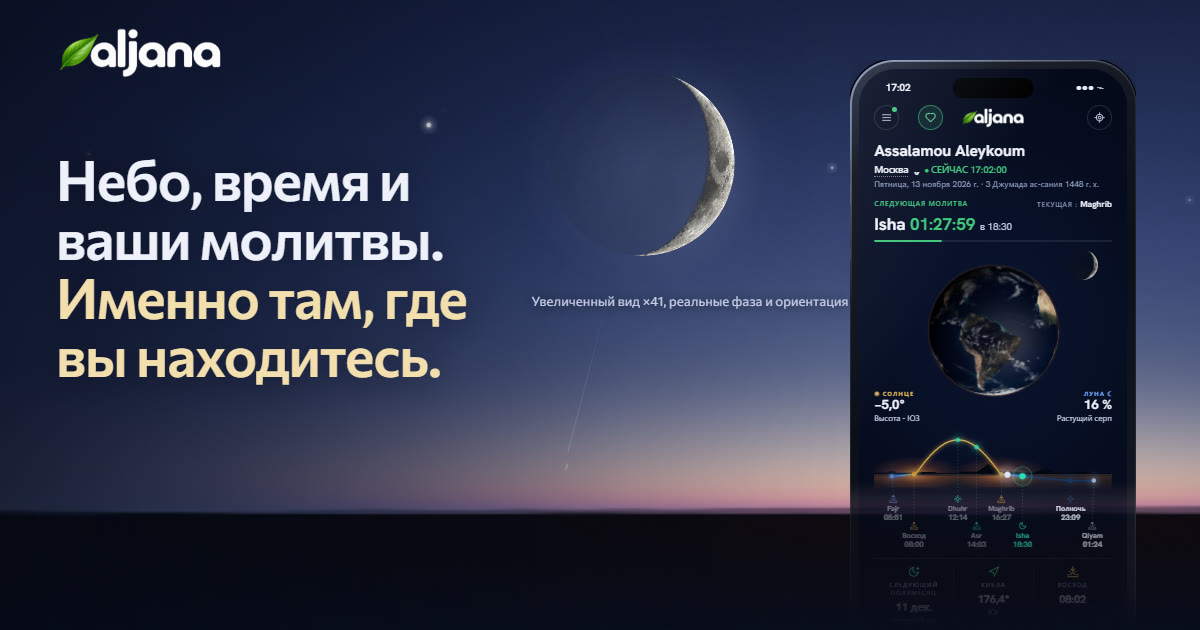
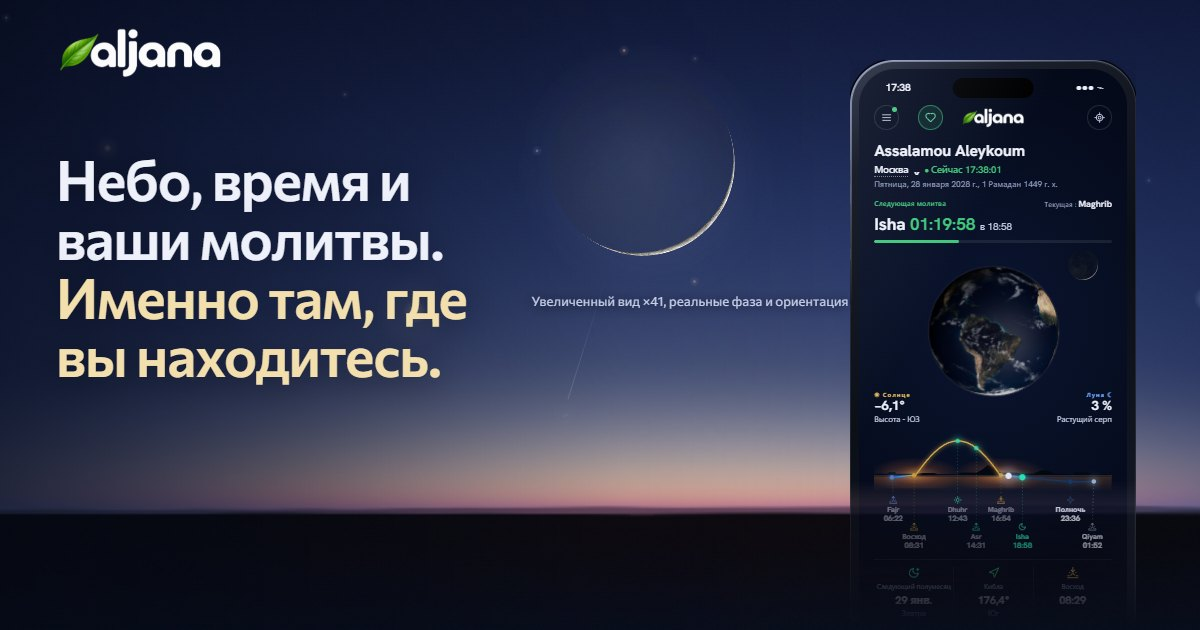
feat(site): share images on 28 January 2028, first evening of Ramadan 1449

diff --git a/index.html b/index.html
@@ -33,14 +33,14 @@
 <meta property="og:url" content="https://aljana.app/">
 <meta property="og:title" content="aljana : vos prières et votre ciel, là où vous êtes">
 <meta property="og:description" content="Horaires de prière, ciel en direct, Lune, Hilal, Qibla et éclipses. Tout est calculé pour votre position et contrôlé face aux éphémérides de la NASA.">
-<meta property="og:image" content="https://aljana.app/assets/og/fr.jpg?v=2">
+<meta property="og:image" content="https://aljana.app/assets/og/fr.jpg?v=3">
 <meta property="og:image:width" content="1200">
 <meta property="og:image:height" content="630">
 <meta property="og:locale" content="fr_FR">
 <meta name="twitter:card" content="summary_large_image">
 <meta name="twitter:title" content="aljana : vos prières et votre ciel, là où vous êtes">
 <meta name="twitter:description" content="Horaires de prière, ciel en direct, Lune, Hilal, Qibla et éclipses, calculés pour votre position.">
-<meta name="twitter:image" content="https://aljana.app/assets/og/fr.jpg?v=2">
+<meta name="twitter:image" content="https://aljana.app/assets/og/fr.jpg?v=3">
 <link rel="alternate" hreflang="x-default" href="https://aljana.app/">
 <link rel="alternate" hreflang="fr" href="https://aljana.app/?lang=fr">
 <link rel="alternate" hreflang="en" href="https://aljana.app/?lang=en-US">

diff --git a/terms.html b/terms.html
@@ -12,11 +12,11 @@
   <meta property="og:url" content="https://aljana.app/terms" />
   <meta property="og:title" content="aljana : conditions d’utilisation" />
   <meta property="og:description" content="Les conditions d’utilisation d’aljana et de son offre Premium : abonnements, Pass, renouvellement, résiliation et remboursement." />
-  <meta property="og:image" content="https://aljana.app/assets/og/fr.jpg?v=2" />
+  <meta property="og:image" content="https://aljana.app/assets/og/fr.jpg?v=3" />
   <meta property="og:image:width" content="1200" />
   <meta property="og:image:height" content="630" />
   <meta name="twitter:card" content="summary_large_image" />
-  <meta name="twitter:image" content="https://aljana.app/assets/og/fr.jpg?v=2" />
+  <meta name="twitter:image" content="https://aljana.app/assets/og/fr.jpg?v=3" />
   <meta name="theme-color" content="#060B18" />
   <!-- Page générée par legal/build.mjs à partir de legal/src : modifier les sources, puis régénérer. -->
   <script>

diff --git a/functions/_middleware.js b/functions/_middleware.js
@@ -26,7 +26,7 @@ export const onRequest = async (ctx) => {
   const code = resolve(url.searchParams.get('lang'))
   if (!code || code === 'fr') return res
   if (!(res.headers.get('content-type') || '').includes('text/html')) return res
-  const m = OG[code], img = `${ORIGIN}/assets/og/${code}.jpg?v=2`, page = `${ORIGIN}/?lang=${code}`
+  const m = OG[code], img = `${ORIGIN}/assets/og/${code}.jpg?v=3`, page = `${ORIGIN}/?lang=${code}`
   const out = new HTMLRewriter()
     .on('html', { element (el) { el.setAttribute('lang', code); el.setAttribute('dir', m.rtl ? 'rtl' : 'ltr') } })
     .on('title', { element (el) { el.setInnerContent(m.title) } })
